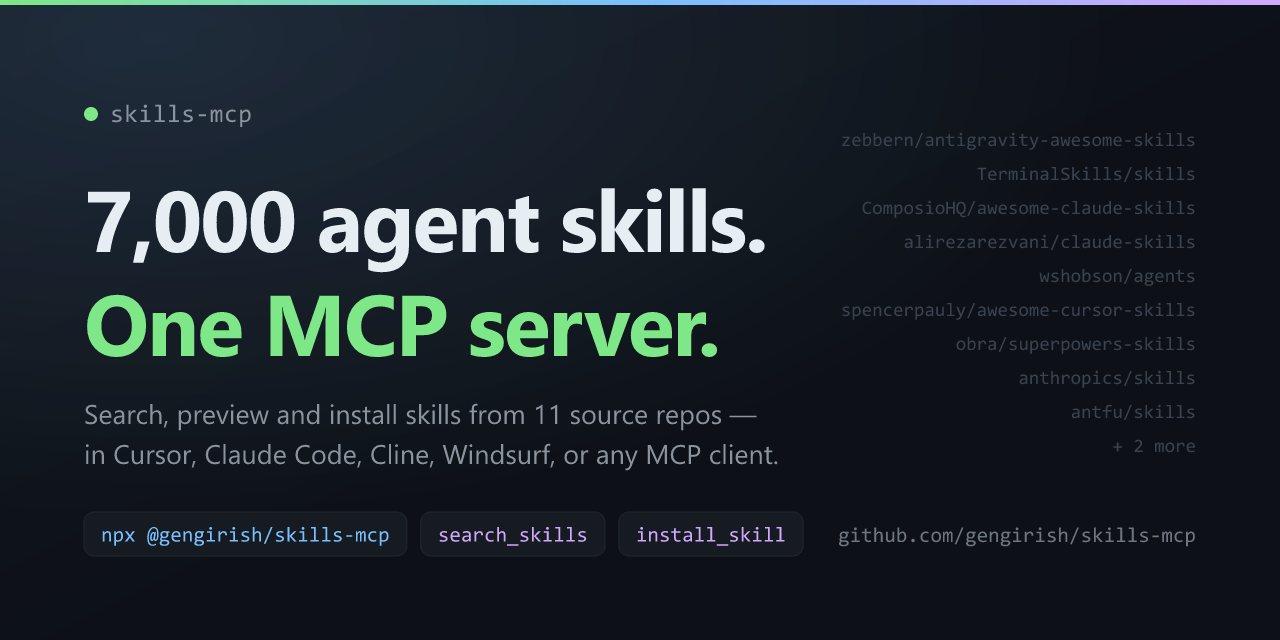
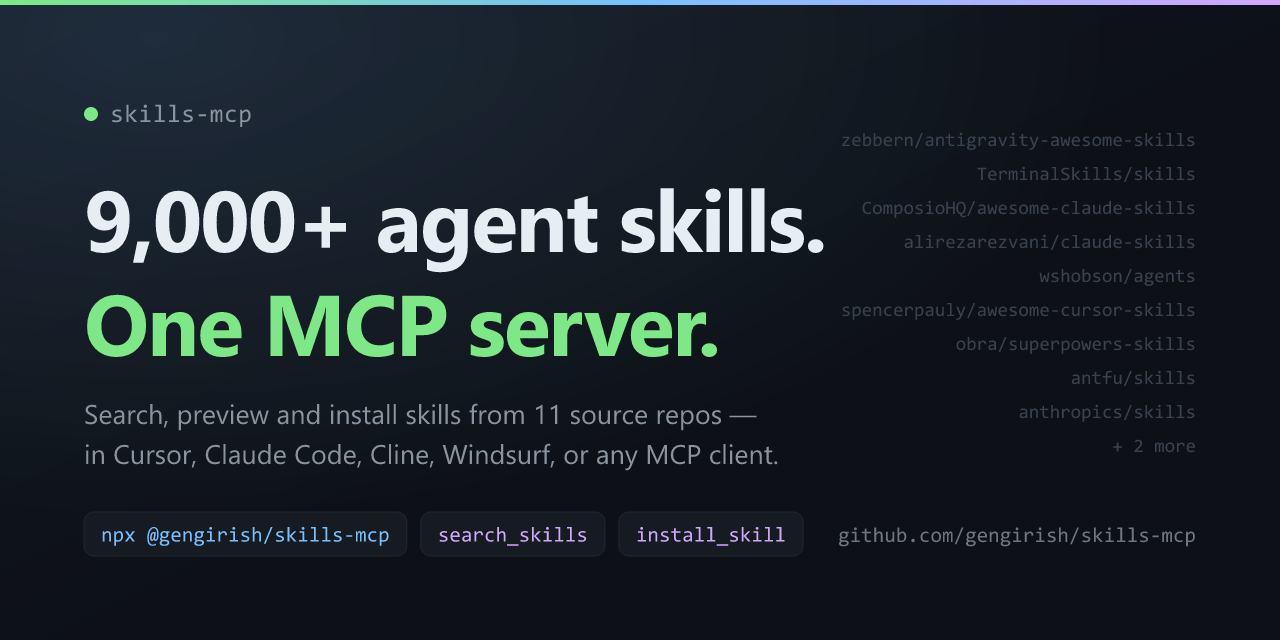
Derive all published counts from the catalog instead of hard-coding them
The daily refresh workflow had grown the catalog from 6,998 to 9,238 skills
while every count in the README, the demo, the social card and the MCP
handshake still said ~7,000. Rather than just correcting the numbers:

- scripts/make-demo.mjs and scripts/make-social.mjs now read
  data/catalog.json at generation time, so regenerating an asset picks up
  the current totals and repo ordering.
- The server's `instructions` blurb reports the live count too, so the
  agent isn't told the index is a third smaller than it is.

Prose counts that can't be generated (README tables, CHANGELOG) are
refreshed to the 2026-07-30 build and now say so explicitly.

diff --git a/src/index.ts b/src/index.ts
@@ -19,13 +19,24 @@ import {
 const VERSION: string = createRequire(import.meta.url)("../package.json")
   .version;
 
+// Describe the catalog with its live size. The daily refresh grows it, so a
+// hard-coded "~7,000" understates what the agent actually has to work with.
+function catalogBlurb(): string {
+  try {
+    const { skills, repos } = loadCatalog().totals;
+    return `Index covers ${skills.toLocaleString("en-US")} skills across ${repos} repositories, including Anthropic, Superpowers, wshobson, antigravity-awesome-skills, Composio, antfu, and TerminalSkills. `;
+  } catch {
+    // Startup will fail with a clearer message in main(); don't mask it here.
+    return "";
+  }
+}
+
 const server = new McpServer(
   { name: "skills-mcp", version: VERSION },
   {
     instructions:
       "Discover, search, and install agent skills (SKILL.md packages) from across the GitHub ecosystem. " +
-      "Index covers ~7,000 skills from Anthropic, Superpowers, wshobson, antigravity-awesome-skills, " +
-      "Composio, antfu, TerminalSkills, and more. " +
+      catalogBlurb() +
       "Workflow: search_skills -> get_skill -> install_skill.",
   }
 );

diff --git a/README.md b/README.md
@@ -1,13 +1,13 @@
 # skills-mcp
 
-> An MCP server that lets any AI agent **discover, search, and install ~7,000 agent skills** from across the GitHub ecosystem (Anthropic, Superpowers, wshobson, antigravity, Composio, antfu, TerminalSkills, and more).
+> An MCP server that lets any AI agent **discover, search, and install 9,000+ agent skills** from across the GitHub ecosystem (Anthropic, Superpowers, wshobson, antigravity, Composio, antfu, TerminalSkills, and more).
 
 [![npm version](https://img.shields.io/badge/npm-%40gengirish%2Fskills--mcp-cb3837)](https://www.npmjs.com/package/@gengirish/skills-mcp)
 [![License: MIT](https://img.shields.io/badge/License-MIT-yellow.svg)](LICENSE)
 
 <p align="center">
   <img src="https://raw.githubusercontent.com/gengirish/skills-mcp/main/assets/demo.svg"
-       alt="Terminal demo: the user asks their agent to find a Stripe skill and install it. The agent calls search_skills, gets 5 matches out of 6,998 indexed skills, fetches the SKILL.md, and installs it into ~/.cursor/skills/adding-stripe/."
+       alt="Terminal demo: the user asks their agent to find a Stripe skill and install it. The agent calls search_skills, gets 5 matches out of 9,238 indexed skills, fetches the SKILL.md, and installs it into ~/.cursor/skills/adding-stripe/."
        width="820">
 </p>
 
@@ -25,7 +25,7 @@ specific job well — are scattered across a dozen unrelated GitHub repos. Anthr
 handful. Superpowers, wshobson, antigravity, Composio, TerminalSkills and others publish thousands
 more. There is no index, no search, and no install path: you find a skill by already knowing which
 repo it lives in, then copy a folder by hand. **skills-mcp collapses that into one MCP server —
-6,998 skills from 11 repos, searchable from inside your editor and installable in a single tool
+9,238 skills from 11 repos, searchable from inside your editor and installable in a single tool
 call.**
 
 ---
@@ -52,11 +52,14 @@ Plus a resource (`skills://catalog`) exposing the full JSON index.
 
 | | |
 |---|---|
-| **Skills indexed** | 6,998 |
+| **Skills indexed** | 9,238 |
 | **Source repositories** | 11 |
 | **Logical domains** | 20 (testing, security, devops, ai-ml, frontend, backend, data, marketing, docs, …) |
-| **Top domain** | AI/ML/LLM (3,923 skills) |
-| **Top repo** | antigravity-awesome-skills (4,293 skills) |
+| **Top domain** | AI/ML/LLM (6,930 skills) |
+| **Top repo** | antigravity-awesome-skills (6,225 skills) |
+
+Counts are from the catalog build on 2026-07-30 and grow with the daily refresh — `catalog_stats`
+always reports the live figure.
 
 The catalog is built **directly from upstream GitHub repos** (no local clones needed) by `scripts/build-catalog.mjs` and shipped inside the npm package — so `search_skills` has zero network latency. `get_skill` and `install_skill` fetch live from GitHub on demand.
 
@@ -191,15 +194,15 @@ The agent will call the appropriate tool and act on the results.
 
 | Repo | Skills | Tier |
 |---|---:|---|
-| [zebbern/antigravity-awesome-skills](https://github.com/zebbern/antigravity-awesome-skills) | 4,293 | Mega bundle |
-| [TerminalSkills/skills](https://github.com/TerminalSkills/skills) | 998 | Cross-tool |
+| [zebbern/antigravity-awesome-skills](https://github.com/zebbern/antigravity-awesome-skills) | 6,225 | Mega bundle |
+| [TerminalSkills/skills](https://github.com/TerminalSkills/skills) | 1,016 | Cross-tool |
 | [ComposioHQ/awesome-claude-skills](https://github.com/ComposioHQ/awesome-claude-skills) | 864 | Curated |
-| [alirezarezvani/claude-skills](https://github.com/alirezarezvani/claude-skills) | 540 | Production teams |
-| [wshobson/agents](https://github.com/wshobson/agents) | 151 | Plugin marketplace |
-| [spencerpauly/awesome-cursor-skills](https://github.com/spencerpauly/awesome-cursor-skills) | 64 | Cursor-native |
+| [alirezarezvani/claude-skills](https://github.com/alirezarezvani/claude-skills) | 798 | Production teams |
+| [wshobson/agents](https://github.com/wshobson/agents) | 180 | Plugin marketplace |
+| [spencerpauly/awesome-cursor-skills](https://github.com/spencerpauly/awesome-cursor-skills) | 65 | Cursor-native |
 | [obra/superpowers-skills](https://github.com/obra/superpowers-skills) | 31 | Framework |
+| [antfu/skills](https://github.com/antfu/skills) | 19 | Curated |
 | [anthropics/skills](https://github.com/anthropics/skills) | 18 | Official |
-| [antfu/skills](https://github.com/antfu/skills) | 17 | Curated |
 | [obra/superpowers](https://github.com/obra/superpowers) | 14 | Framework |
 | [gmh5225/awesome-skills](https://github.com/gmh5225/awesome-skills) | 8 | Curated |
 

diff --git a/CHANGELOG.md b/CHANGELOG.md
@@ -25,7 +25,7 @@ without a major bump.
     `custom` target).
   - `catalog_stats` — versions, catalog generation time, totals.
 - **`skills://catalog` resource** exposing the full JSON index.
-- **6,998 skills indexed across 11 source repositories**, classified into 20
+- **9,238 skills indexed across 11 source repositories**, classified into 20
   domains by the shared ruleset in `scripts/classify.mjs`.
 - **Daily catalog refresh** via GitHub Actions (`.github/workflows/refresh-catalog.yml`),
   with manual `--force` / `--include-registry` toggles.
